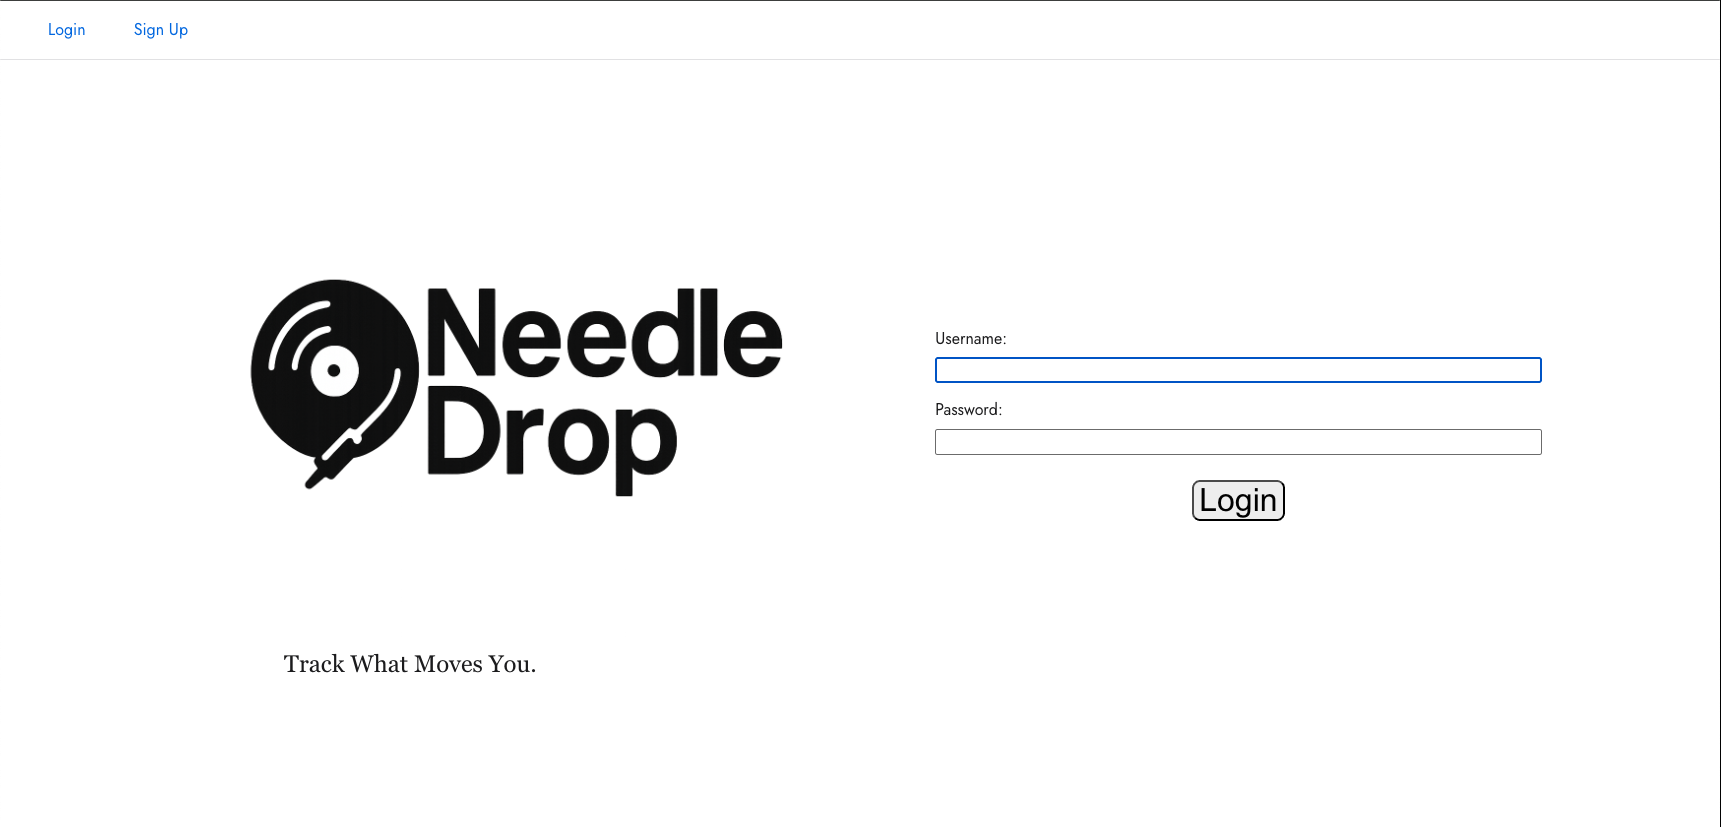
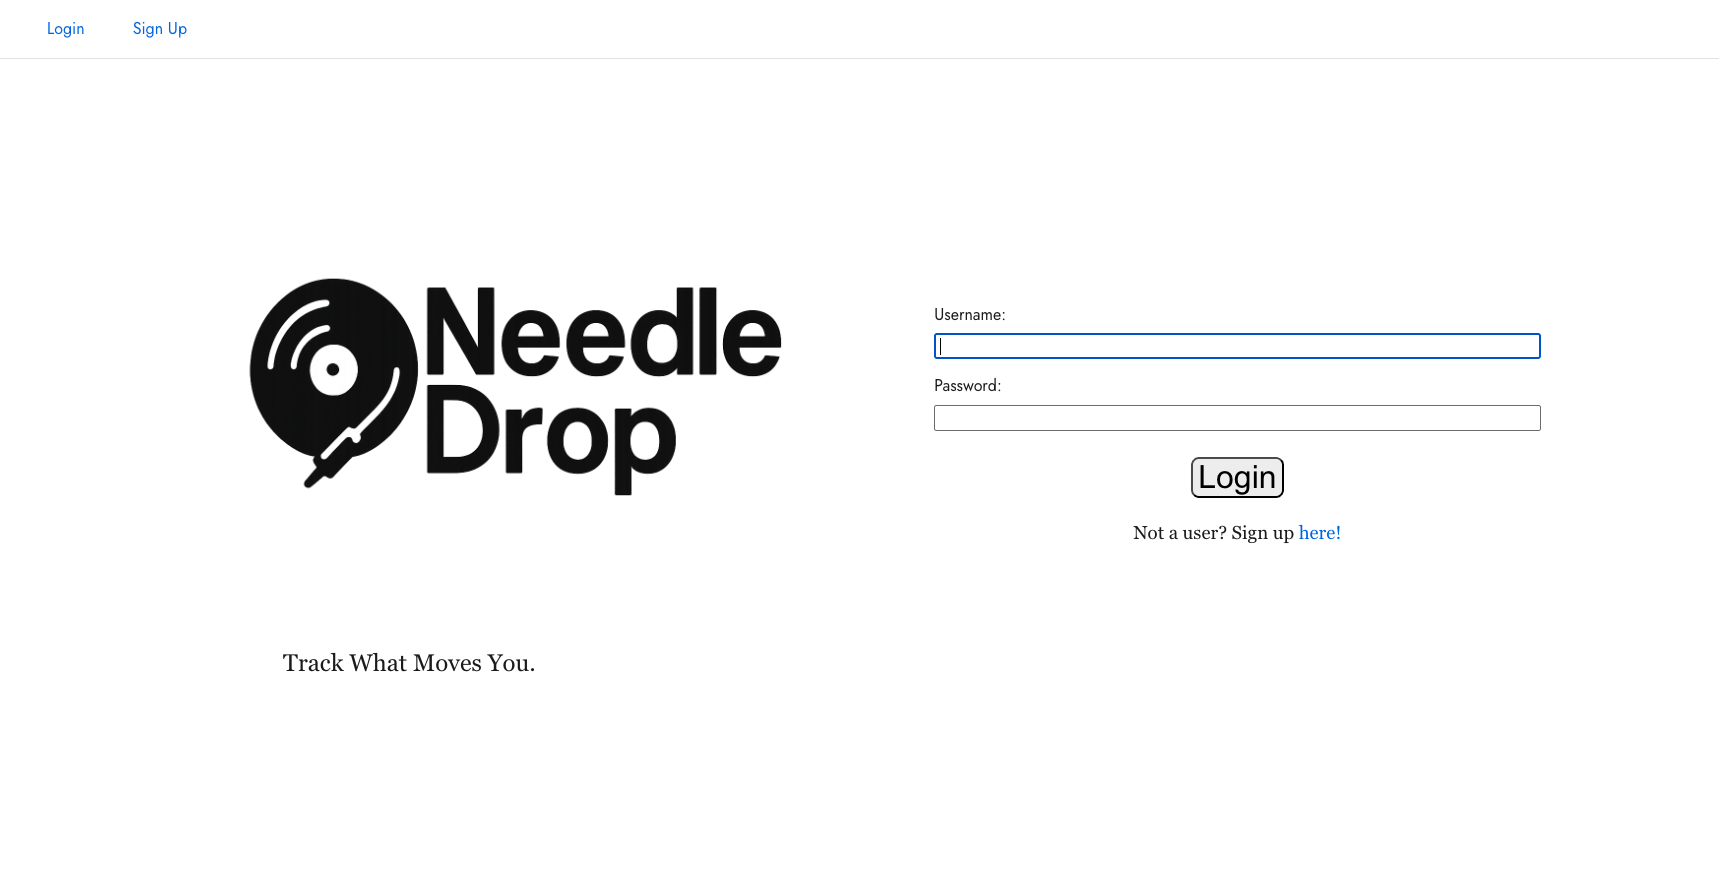
updated README.md

diff --git a/collection/templates/home.html b/collection/templates/home.html
@@ -19,5 +19,8 @@
     <br>
     <button type="submit" class="btn-submit" style="margin: auto; font-size: 2rem; padding: 0 5px 0 5px; border-radius: 8px;">Login</button>
   </form>
+  <div>
+    <h3>Not a user? Sign up <a href="{% url 'signup' %}">here!</a></h3>
+  </div>
 </section>
 {% endif %} {% endblock %}
